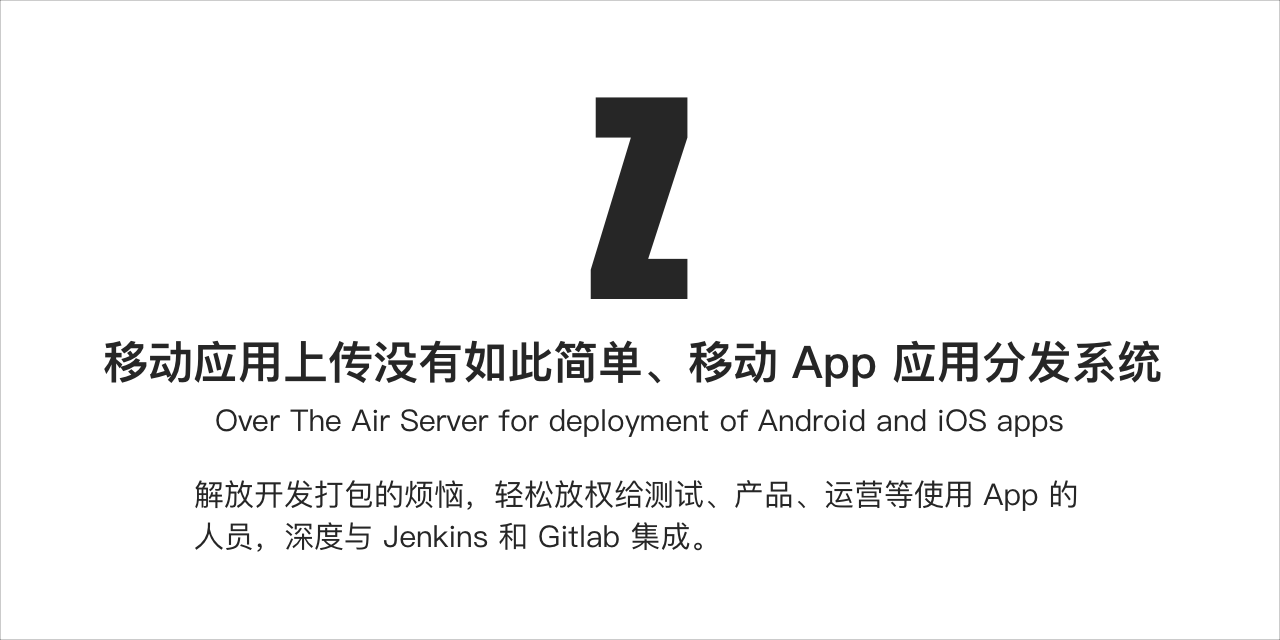
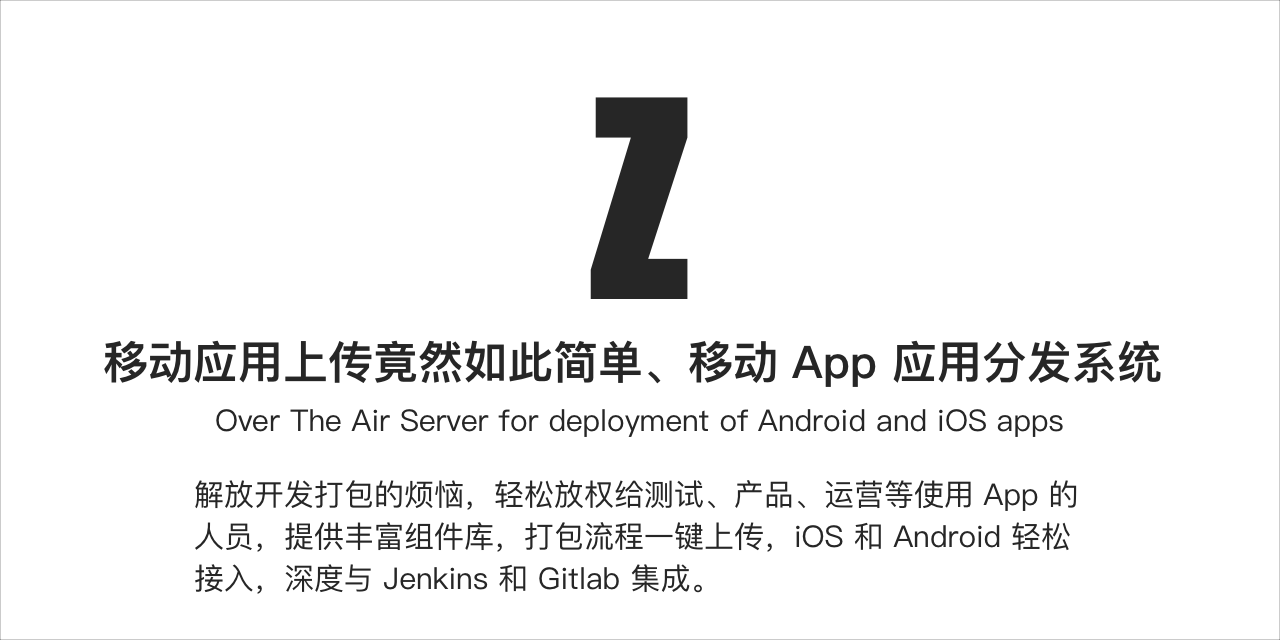
doc: 增加 webhook 和 credits

diff --git a/docs/webhooks.md b/docs/webhooks.md
@@ -1,0 +1,85 @@
+# 网络钩子（WebHook）
+
+Zealot 为每个应用渠道都提供一个消息通知的网络钩子，网络钩子完全可自定义结构体可适用于绝大多数的通知服务，
+比如企业微信、钉钉、Slack 等等。
+
+## 默认结构体
+
+默认结构体每个参数都已变量的方式提供它的值，每个变量都以 `@` 开头，在创建网络钩子如果留空自定义结构体就会使用默认结构体，
+如下全部提供的变量：
+
+```ruby
+{
+  event: @event,
+  title: @title,
+  app_name: @name,
+  device_type: @device_type,
+  release_version: @release_version,
+  build_version: @build_version,
+  size: @file_size,
+  changelog: @changelog,
+  install_url: @install_url,
+  icon_url: @icon_url,
+  qrcode_url: @qrcode_url,
+  uploaded_at: @uploaded_at
+}
+```
+
+输出的结果如下：
+
+```json
+{
+  event: "upload_events",
+  title: "Zealot 样例 iOS 内测版上传了 1.0.0 版本",
+  app_name: "Zealot 样例 iOS 内测版",
+  device_type: "iOS",
+  release_version: "1.0.0",
+  build_version: "1",
+  size: "30 MB",
+  changelog: "",
+  install_url: "https://zealot.test/api/apps/download/12354",
+  icon_url: "https://zealot.test/api/apps/icon.png",
+  qrcode_url: "https://zealot.test/api/apps/354/qrcode",
+  uploaded_at: "2019-12-30 11:33:00"
+}
+```
+
+## 企业微信
+
+企业微信的网络钩子结构体通常支持 text 和 markdown 两种方式，可通过如下配置实现：
+
+### Text 文本格式
+
+```ruby
+{
+  "msgtype": "text",
+  "text": {
+    "content": "#{@title}\n\n
+      安装地址：#{@install_url}\n
+      上传时间: #{@uploaded_at}"
+  }
+}
+```
+
+### Markdown 格式
+
+```ruby
+{
+  "msgtype": "markdown",
+  "markdown": {
+    "content": "## #{@title}\n
+      平台: #{@device_type}\n
+      上传时间: #{@uploaded_at}\n
+      安装二维码:\n
+      ![qrcode](#{@qrcode_url})"
+  }
+}
+```
+
+## 钉钉
+
+> TODO
+
+## Slack
+
+> TODO

diff --git a/docs/README.md b/docs/README.md
@@ -6,9 +6,11 @@
 <a class="github-button" href="https://github.com/icyleaf" data-size="large" data-show-count="true" aria-label="Follow @icyleaf on GitHub">Follow @icyleaf</a>
 
 [![GitHub release](https://img.shields.io/github/release/getzealot/zealot.svg)](https://github.com/getzealot/zealot/releases)
-[![License](https://img.shields.io/github/license/getzealot/zealot)](LICENSE)
+[![Docker Pulls](https://img.shields.io/docker/pulls/icyleafcn/zealot.svg)](https://hub.docker.com/r/icyleafcn/zealot/)
+[![Maintainability](https://codeclimate.com/github/getzealot/zealot/badges/gpa.svg)](https://codeclimate.com/github/getzealot/zealot)
+[![License](https://img.shields.io/github/license/getzealot/zealot)](https://github.com/getzealot/zealot/blob/develop/LICENSE)
 
-移动应用上传没有如此简单、解放开发打包的烦恼，轻松放权给测试、产品、运营等使用 App 的人员，深度与 Jenkins 和 Gitlab 集成。
+移动应用上传竟然如此简单、解放开发打包的烦恼，轻松放权给测试、产品、运营等使用 App 的人员，深度与 Jenkins 和 Gitlab 集成。
 
 ![Zealot Dashboard](_media/screenshot/product-1.png)
 

diff --git a/docs/credits.md b/docs/credits.md
@@ -1,0 +1,19 @@
+# Credits
+
+实在不知道怎么翻译 `Credits`，就这么招吧。
+
+## 贡献成员
+
+项目代码贡献名单请参见 [Github 页面](https://github.com/getzealot/zealot/graphs/contributors)，感谢你们让 Zealot 变得更有用！
+
+## 项目名
+
+Zealot 来自星际争霸种神族基础兵种。
+
+## 图标
+
+项目历史提交资源可能会使用到对于的图标版权归属[暴雪](https://www.blizzard.com)，后期改为自己设计的图标，如果有热心设计师能够帮助设计更好的图标，本人代表本项目表示衷心的感谢。
+
+## 发布协议
+
+Zealot 是一个基于 MIT 发布协议 (MIT) 发布的开源项目，协议内容请参见[协议文件](https://github.com/getzealot/zealot/blob/develop/LICENSE)。

diff --git a/docs/_sidebar.md b/docs/_sidebar.md
@@ -1,8 +1,13 @@
-- [主页](/)
-- [安装部署](deployment.md)
-- [项目配置](configuration.md)
-- [API 接口](api.md)
-- [组件库](modules.md)
-- [开发指南](development.md)
+- 快速上手
+  - [安装部署](deployment.md)
+  - [项目配置](configuration.md)
+  - [网络钩子](webhooks.md)
+
+- 开发资源
+  - [组件库](modules.md)
+  - [API 接口](api.md)
+  - [开发指南](development.md)
+
 - [功能截图](screenshot.md)
 - [变更日志](changelog.md)
+- [Credits](credits.md)

diff --git a/docs/development.md b/docs/development.md
@@ -98,14 +98,27 @@ $ source ~/.bash_profile
 
 ### bundler
 
-```
+```bash
 $ [sudo] gem install bundler
 $ bundle install
 ```
 
-### 开始运行 zealot
+### 初始化数据库
 
+```bash
+$ rails db:create
+$ rails db:migrate
 ```
+
+初始化管理员账号和应用样例
+
+```bash
+$ rails db:seed
+```
+
+### 启动 Zealot 服务
+
+```bash
 $ bundle exec guard start
 ```
 
